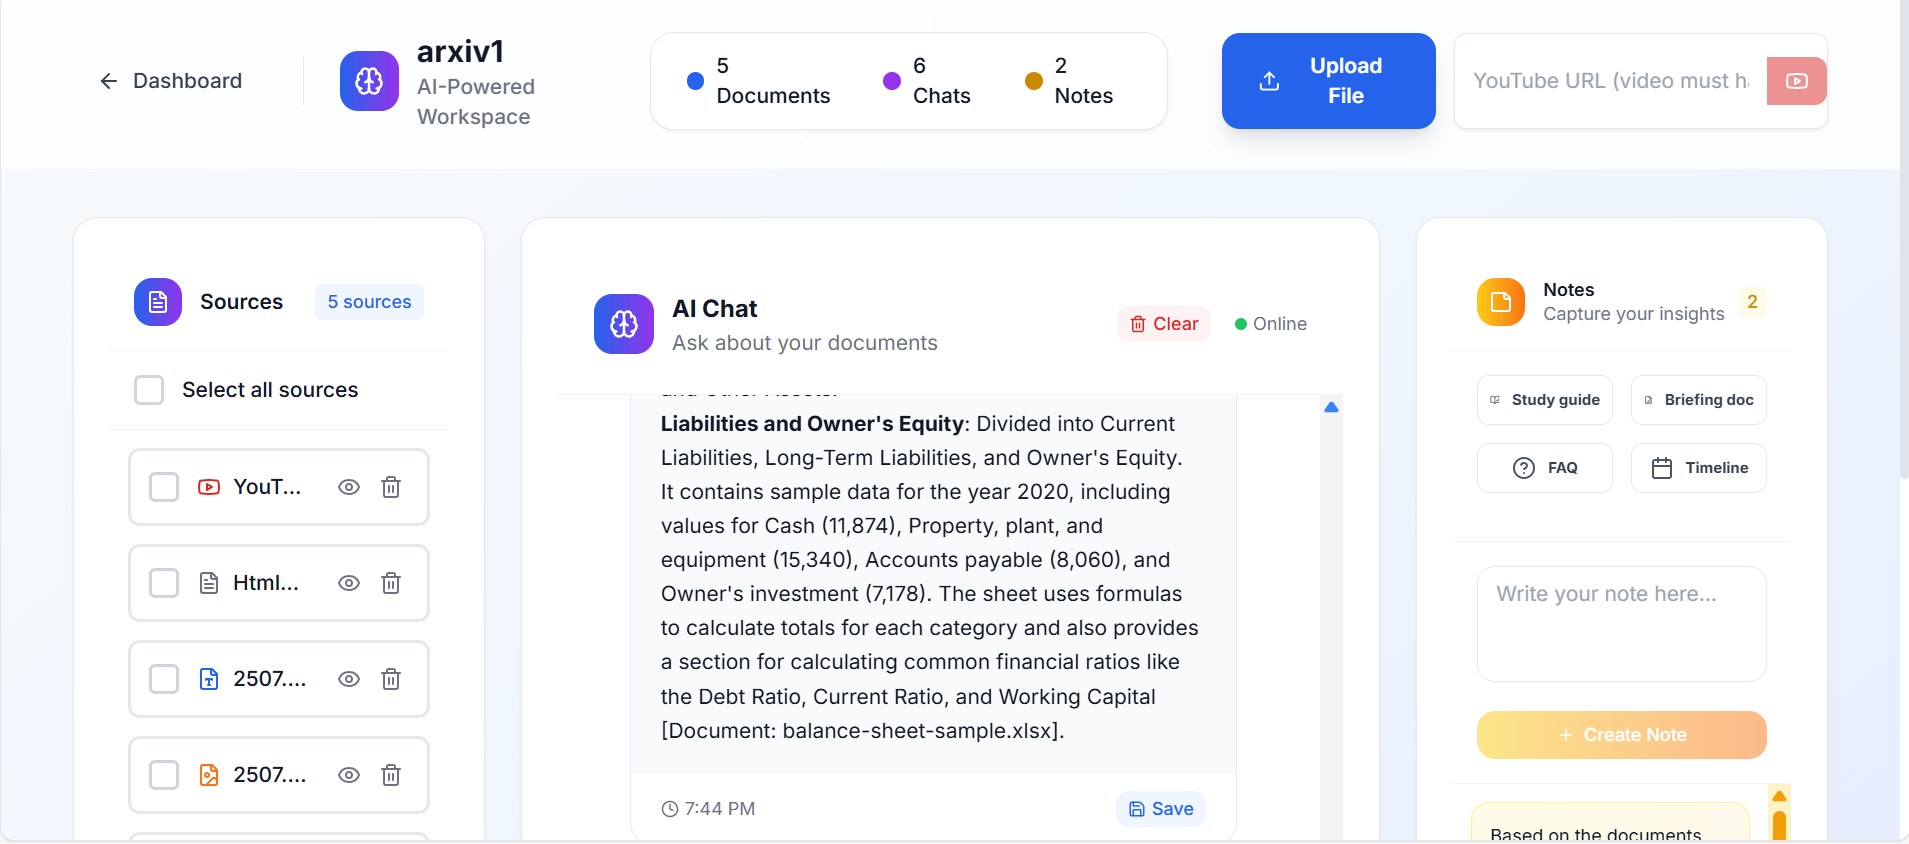
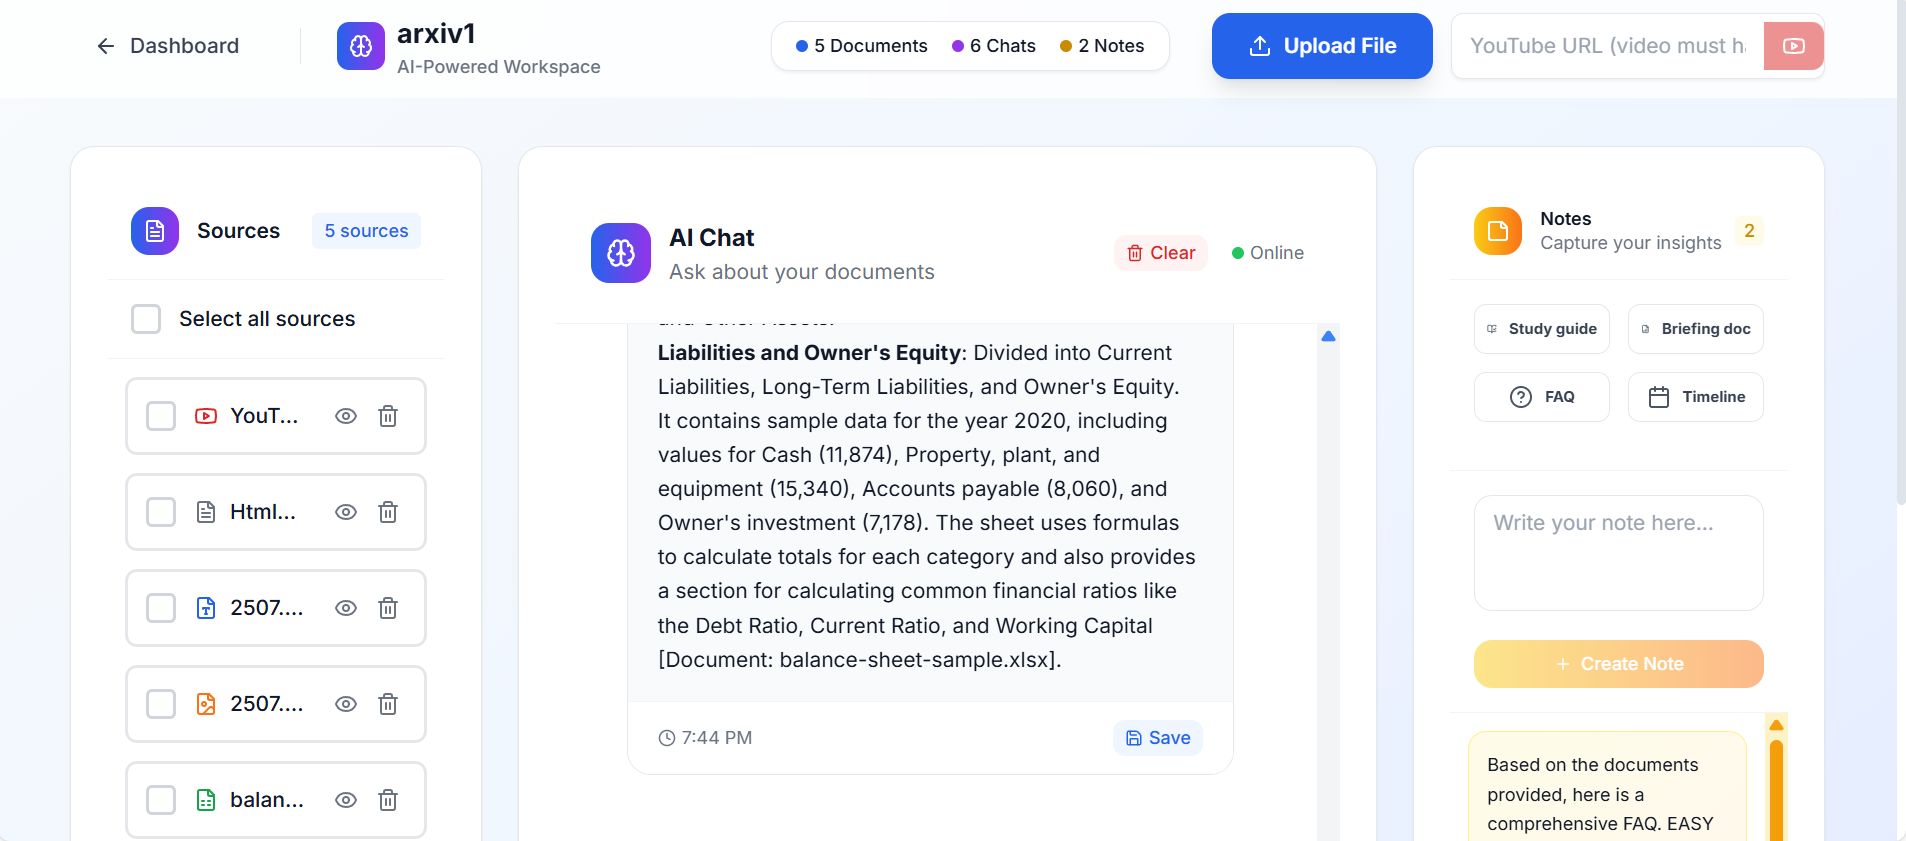
Better Layout and all docs upload

diff --git a/frontend/src/pages/NotebookPage.tsx b/frontend/src/pages/NotebookPage.tsx
@@ -611,7 +611,7 @@ Format as a clear timeline with dates/periods and descriptions. Focus on the tem
       {/* Header */}
       <header className="bg-white/80 backdrop-blur-xl border-b border-white/20 sticky top-0 z-50">
         <div className="max-w-7xl mx-auto px-6 sm:px-8 lg:px-12">
-          <div className="flex items-center justify-between py-6">
+          <div className="flex items-center justify-between py-3">
             {/* Navigation */}
             <div className="flex items-center space-x-6">
               <button
@@ -622,34 +622,34 @@ Format as a clear timeline with dates/periods and descriptions. Focus on the tem
                 Dashboard
               </button>
               
-              <div className="h-8 w-px bg-gray-200"></div>
+              <div className="h-6 w-px bg-gray-200"></div>
               
-              <div className="flex items-center space-x-3">
-                <div className="flex items-center justify-center w-10 h-10 bg-gradient-to-r from-blue-600 to-purple-600 rounded-xl">
-                  <Brain className="w-5 h-5 text-white" />
+              <div className="flex items-center space-x-2">
+                <div className="flex items-center justify-center w-8 h-8 bg-gradient-to-r from-blue-600 to-purple-600 rounded-lg">
+                  <Brain className="w-4 h-4 text-white" />
                 </div>
                 <div>
-                  <h1 className="text-xl font-bold text-gray-900">{notebook?.title}</h1>
-                  <p className="text-sm text-gray-500 font-medium">AI-Powered Workspace</p>
+                  <h1 className="text-lg font-bold text-gray-900">{notebook?.title}</h1>
+                  <p className="text-xs text-gray-500 font-medium">AI-Powered Workspace</p>
                 </div>
               </div>
             </div>
 
             {/* Quick Actions with Upload */}
-            <div className="flex items-center space-x-6">
+            <div className="flex items-center space-x-4">
               {/* Workspace Overview Stats */}
-              <div className="flex items-center space-x-6 bg-white rounded-2xl px-6 py-3 shadow-sm border border-gray-200">
-                <div className="flex items-center space-x-2">
-                  <div className="w-3 h-3 bg-blue-600 rounded-full"></div>
-                  <span className="text-sm font-medium text-gray-900">{documents.length} Documents</span>
+              <div className="flex items-center space-x-4 bg-white rounded-xl px-4 py-2 shadow-sm border border-gray-200">
+                <div className="flex items-center space-x-1">
+                  <div className="w-2 h-2 bg-blue-600 rounded-full"></div>
+                  <span className="text-xs font-medium text-gray-900">{documents.length} Documents</span>
                 </div>
-                <div className="flex items-center space-x-2">
-                  <div className="w-3 h-3 bg-purple-600 rounded-full"></div>
-                  <span className="text-sm font-medium text-gray-900">{chatHistory.length} Chats</span>
+                <div className="flex items-center space-x-1">
+                  <div className="w-2 h-2 bg-purple-600 rounded-full"></div>
+                  <span className="text-xs font-medium text-gray-900">{chatHistory.length} Chats</span>
                 </div>
-                <div className="flex items-center space-x-2">
-                  <div className="w-3 h-3 bg-yellow-600 rounded-full"></div>
-                  <span className="text-sm font-medium text-gray-900">{notes.length} Notes</span>
+                <div className="flex items-center space-x-1">
+                  <div className="w-2 h-2 bg-yellow-600 rounded-full"></div>
+                  <span className="text-xs font-medium text-gray-900">{notes.length} Notes</span>
                 </div>
               </div>
               
@@ -714,7 +714,7 @@ Format as a clear timeline with dates/periods and descriptions. Focus on the tem
       </header>
 
       {/* Main Content */}
-      <div className="max-w-7xl mx-auto px-6 sm:px-8 lg:px-12 py-8">
+      <div className="max-w-7xl mx-auto px-6 sm:px-8 lg:px-12 py-4">
 
         {/* Three-Pane Layout */}
         <div className="grid grid-cols-1 lg:grid-cols-12 gap-6 min-h-[600px]">
@@ -727,7 +727,7 @@ Format as a clear timeline with dates/periods and descriptions. Focus on the tem
                     <FileText className="w-4 h-4 text-white" />
                   </div>
                   <div>
-                    <h3 className="font-semibold text-gray-900 text-sm">Sources</h3>
+                    <h3 className="font-semibold text-gray-900 text-xs">Sources</h3>
                   </div>
                 </div>
                 <span className="text-xs font-medium text-blue-600 bg-blue-50 px-2 py-1 rounded">
@@ -754,7 +754,7 @@ Format as a clear timeline with dates/periods and descriptions. Focus on the tem
                         {selectAllDocuments && <Check className="w-3 h-3 text-white" />}
                       </div>
                     </div>
-                    <span className="text-sm font-medium text-gray-900">Select all sources</span>
+                    <span className="text-xs font-medium text-gray-900">Select all sources</span>
                   </label>
                 </div>
               )}
@@ -826,7 +826,7 @@ Format as a clear timeline with dates/periods and descriptions. Focus on the tem
                                 return <IconComponent className={`w-4 h-4 ${color} flex-shrink-0`} />;
                               })()}
                               <div className="flex-1 min-w-0">
-                                <h4 className="font-medium text-gray-900 text-sm truncate">{doc.filename}</h4>
+                                <h4 className="font-medium text-gray-900 text-xs truncate">{doc.filename}</h4>
                               </div>
                             </div>
                             
@@ -866,14 +866,14 @@ Format as a clear timeline with dates/periods and descriptions. Focus on the tem
           {/* Center Pane - Chat */}
           <div className="lg:col-span-6">
             <div className="card-modern h-full flex flex-col">
-              <div className="flex items-center justify-between p-6 border-b border-gray-100">
+              <div className="flex items-center justify-between p-4 border-b border-gray-100">
                 <div className="flex items-center space-x-3">
-                  <div className="flex items-center justify-center w-10 h-10 bg-gradient-to-r from-blue-600 to-purple-600 rounded-xl">
-                    <Brain className="w-5 h-5 text-white" />
+                  <div className="flex items-center justify-center w-8 h-8 bg-gradient-to-r from-blue-600 to-purple-600 rounded-xl">
+                    <Brain className="w-4 h-4 text-white" />
                   </div>
                   <div>
-                    <h3 className="font-bold text-gray-900">AI Chat</h3>
-                    <p className="text-sm text-gray-500">
+                    <h3 className="font-semibold text-gray-900 text-xs">AI Chat</h3>
+                    <p className="text-xs text-gray-500">
                       {selectedDocuments.size > 0 
                         ? `Using ${selectedDocuments.size} selected source${selectedDocuments.size !== 1 ? 's' : ''}`
                         : 'Ask about your documents'
@@ -957,7 +957,7 @@ Format as a clear timeline with dates/periods and descriptions. Focus on the tem
                               <span className="text-xs font-semibold text-blue-600 uppercase tracking-wide">AI Assistant</span>
                               <div className="w-1.5 h-1.5 bg-green-500 rounded-full"></div>
                             </div>
-                            <div className="text-gray-900 text-sm leading-relaxed">
+                            <div className="text-gray-900 text-xs leading-relaxed">
                               <div className="prose prose-sm max-w-none prose-headings:text-gray-900 prose-headings:font-bold prose-p:text-gray-800 prose-p:leading-relaxed prose-strong:text-gray-900 prose-strong:font-bold prose-ul:list-disc prose-ol:list-decimal prose-li:text-gray-800 prose-blockquote:border-l-blue-500 prose-blockquote:bg-blue-50 prose-blockquote:pl-4 prose-code:bg-gray-100 prose-code:px-1 prose-code:rounded">
                                 <ReactMarkdown remarkPlugins={[remarkGfm]}>
                                   {chat.ai_response}
